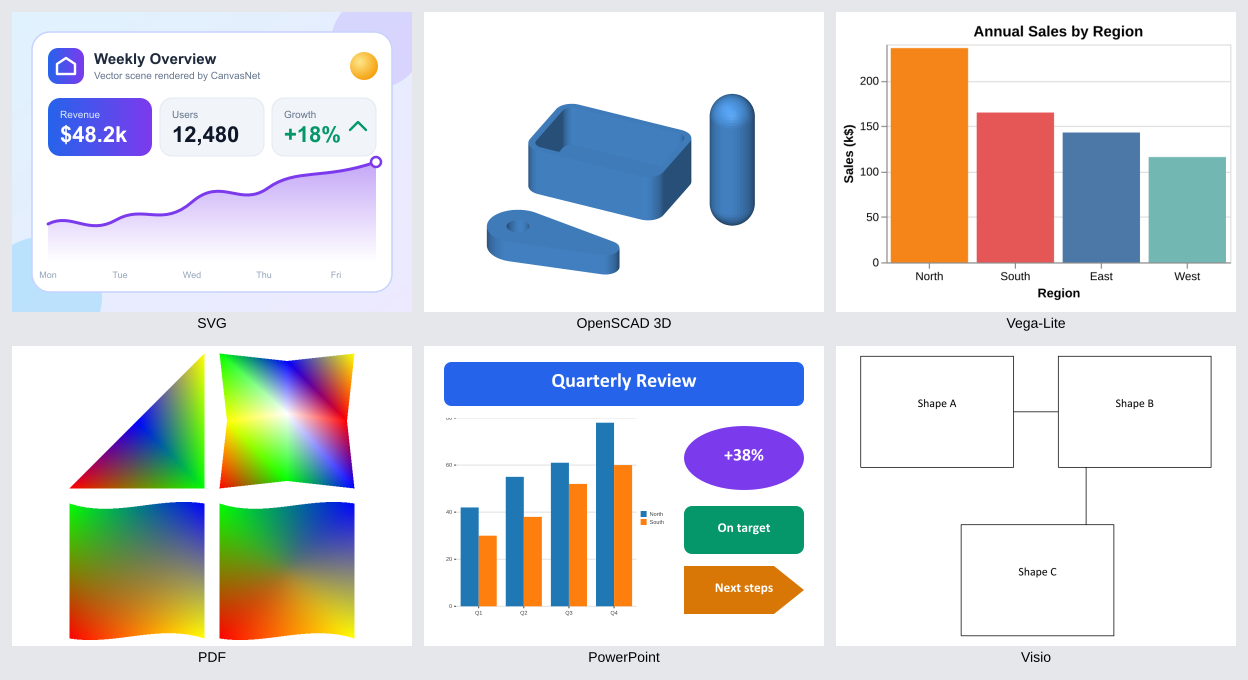
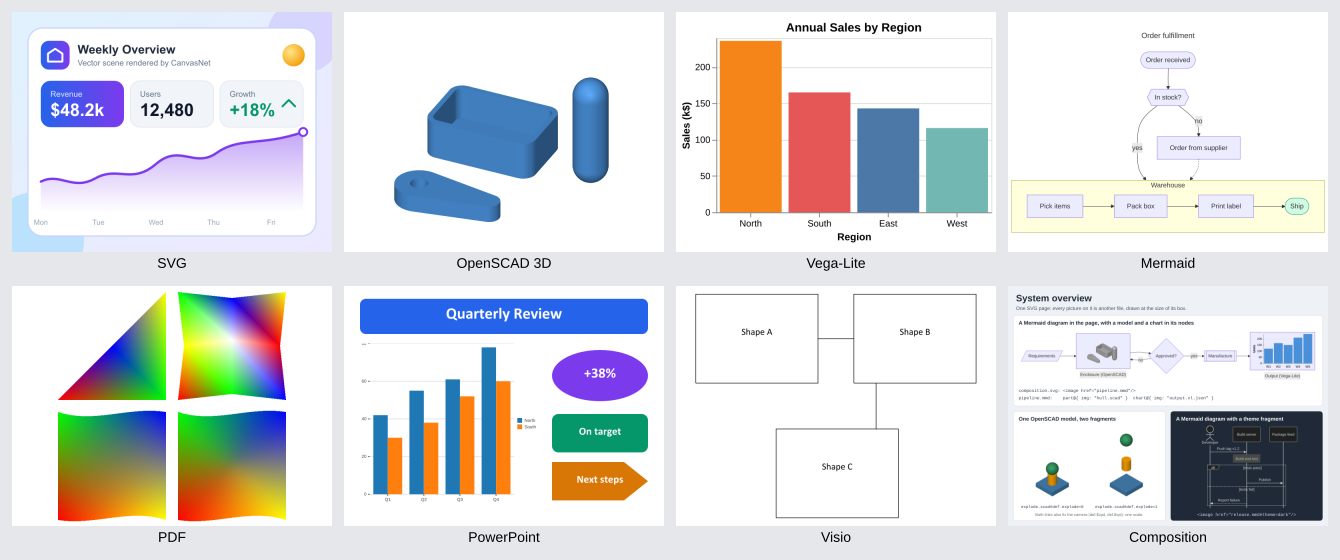
Show Mermaid and composition across formats in the README images
- showcase.png is a 4x2 grid with a Mermaid flowchart panel and a composition panel.
- New composition.png: an SVG page that embeds a Mermaid flowchart whose nodes show an OpenSCAD model and a
  Vega-Lite chart, one OpenSCAD model twice through def. fragments, and a sequence diagram with #theme=dark.
- New mermaid-gallery.png: six Mermaid diagram types from the user guide examples.
- README: new Composition section (nesting, fragments, flatten), Mermaid gallery, and updated captions.
- render-images.ps1 draws and checks the new images; docs/images/README.md describes their sources.

diff --git a/docs/images/README.md b/docs/images/README.md
@@ -2,6 +2,38 @@
 
 This folder holds the images used by the project README and the tool user guide.
 
+## composition.png
+
+`composition.png` (1440x1080) shows composition across formats: one SVG page, `showcase/composition.svg` (960x720,
+drawn at 1.5 times its size), whose pictures are other files that CanvasNet draws at the size of their boxes. It is
+referenced from the *Composition* section of the README by an absolute URL, like `showcase.png`.
+
+- The top panel embeds the Mermaid flowchart `showcase/pipeline.mmd` (`<image href="pipeline.mmd"/>`), whose picture
+  nodes show the OpenSCAD model `showcase/hull.scad` and the Vega-Lite chart `showcase/output.vl.json`
+  (`part@{ img: "hull.scad", ... }`): three levels of nesting, SVG, then Mermaid, then OpenSCAD and Vega-Lite. Every
+  picture node has its `w` and `h`, so the layout does not depend on the pictures.
+- The bottom left panel links the OpenSCAD assembly `showcase/explode.scad` twice, at the explode levels 0 and 1,
+  chosen by the fragment of each link (in the SVG file,
+  `explode.scad#def.explode=1&amp;def.$vpd=330&amp;def.$vpt=[0,0,46]`). The
+  fixed camera (`def.$vpd`, `def.$vpt`) gives both pictures one scale.
+- The bottom right panel links the Mermaid sequence diagram `showcase/release.mmd` with the dark theme chosen by its
+  link (`release.mmd#theme=dark`).
+
+The text of the page uses only the generic font families `sans-serif` and `monospace`, which are always the bundled
+Liberation fonts, and Mermaid and Vega-Lite always use the bundled fonts, so the picture is the same on every machine.
+`composition.svg`, `pipeline.mmd`, `output.vl.json`, and `release.mmd` are **original to this repository** (MIT), and
+so are the reused `hull.scad` and `explode.scad`. `render-images.ps1` draws it with `--strict`, so a link that stops
+working fails the script, and checks it like the other images.
+
+## mermaid-gallery.png
+
+`mermaid-gallery.png` (1248x680) is a montage of six Mermaid diagram types (a sequence diagram, a class diagram, a
+state diagram, a gantt chart, a mindmap, and a git graph), each drawn by `canvasnet render --strict` at twice its size
+and shown at 400x300. It is referenced from the README by an absolute URL, like `showcase.png`. The diagrams are the
+user guide examples `mermaid-sequence-arrows.mmd`, `mermaid-class-relations.mmd`, `mermaid-state-notes.mmd`,
+`mermaid-gantt.mmd`, `mermaid-mindmap.mmd`, and `mermaid-gitgraph.mmd` in `docs/user_guide/examples`, which are
+**original to this repository** (MIT). `render-images.ps1` draws and checks the montage like the other images.
+
 ## montage-explode.png
 
 `montage-explode.png` (888x366) is the picture of the `canvasnet montage` example of the tool user guide: the
@@ -25,9 +57,9 @@ chart shows, is **original to this repository** (MIT): the data is invented (a f
 
 ## showcase.png
 
-`showcase.png` (1248x680) is a montage of six panels, each rendered by the `canvasnet` command-line tool:
-SVG, OpenSCAD 3D, Vega-Lite, PDF, PowerPoint,
-and Visio. It is referenced from the README by an absolute URL, because the README is also shipped inside the
+`showcase.png` (1340x560) is a montage of eight panels in a 4x2 grid, each rendered by the `canvasnet` command-line
+tool: SVG, OpenSCAD 3D, Vega-Lite, Mermaid, PDF, PowerPoint, Visio, and a composition of several formats on one SVG
+page. It is referenced from the README by an absolute URL, because the README is also shipped inside the
 NuGet packages.
 
 ### Provenance and Licensing
@@ -38,10 +70,13 @@ permissively licensed third-party file that is credited below.
 - **SVG**: `showcase/dashboard.svg` - original, authored for this repository (MIT)
 - **OpenSCAD 3D**: `showcase/hull.scad` - original, authored for this repository (MIT)
 - **Vega-Lite**: `showcase/sales.vl.json` - original, authored for this repository (MIT)
+- **Mermaid**: `showcase/flowchart.mmd` - original, authored for this repository (MIT)
 - **PDF**: `showcase/mesh-shading.pdf` - copy of the hand-authored test fixture
   `shading-mesh-types-4-5-6-7.pdf` (MIT)
 - **PowerPoint**: `showcase/slide.pptx` - original, generated by `showcase/make-slide.py` with python-pptx (MIT)
 - **Visio**: `davehoward-test4-connectors.vsdx` (not copied here) - third-party, BSD 3-Clause; see the notice below
+- **Composition**: `showcase/composition.svg` and the files it links (see *composition.png* above) - original,
+  authored for this repository (MIT)
 
 The Visio panel renders `test4_connectors.vsdx` from the
 [dave-howard/vsdx](https://github.com/dave-howard/vsdx) project, which is kept unmodified as
@@ -98,7 +133,7 @@ To use a freshly built tool instead of an installed one, name its command with `
 `CANVASNET_TOOL` environment variable (a program and optional leading arguments), for example
 `dotnet src/DemaConsulting.CanvasNet.Tool/bin/Release/net10.0/DemaConsulting.CanvasNet.Tool.dll`.
 
-For `showcase.png`, each panel is rendered at 800x600 and shown at 400x300. The `--labels` option of
+For `showcase.png`, each panel is rendered at 800x600 and shown at 320x240. The `--labels` option of
 `canvasnet montage` prints the input file name, so the script copies the panels to extensionless files named after
 their labels before it builds the montage. To rebuild the PowerPoint input, run `python make-slide.py` in
 `docs/images/showcase` (it needs `pip install python-pptx`).
@@ -124,4 +159,5 @@ Notes:
 
 - The chart colors bars by region on the x axis, which already names each bar, so its legend is switched off with
   `legend: null`.
-- Panels 3, 4, 5, and 6 are padded with white to exactly 4:3 so that every cell has the same shape.
+- The Vega-Lite, Mermaid, PDF, PowerPoint, and Visio panels are padded with white to exactly 4:3 so that every cell
+  has the same shape; the SVG, OpenSCAD, and Composition panels are drawn at 800x600 directly.

diff --git a/README.md b/README.md
@@ -23,15 +23,46 @@ codecs for loading and saving images in common file formats. It's designed for f
 image operations using `Span<T>`, and supports independent-copy cropping and high-quality resizing for
 load/crop/resize/save workflows.
 
-![CanvasNet showcase: an SVG dashboard, an OpenSCAD 3D model, a Vega-Lite bar chart, a PDF page with mesh shadings, a PowerPoint slide with a chart, and a Visio diagram, all rendered by CanvasNet](https://raw.githubusercontent.com/demaconsulting/CanvasNet/main/docs/images/showcase.png)
+![CanvasNet showcase: an SVG dashboard, an OpenSCAD 3D model, a Vega-Lite bar chart, a Mermaid flowchart, a PDF page with mesh shadings, a PowerPoint slide with a chart, a Visio diagram, and an SVG page that composes several of them, all rendered by CanvasNet](https://raw.githubusercontent.com/demaconsulting/CanvasNet/main/docs/images/showcase.png)
 
-*Rendered with the `canvasnet` tool: SVG, OpenSCAD 3D, Vega-Lite, PDF, PowerPoint, and Visio. See
+*Rendered with the `canvasnet` tool: SVG, OpenSCAD 3D, Vega-Lite, Mermaid, PDF, PowerPoint, Visio, and a composition
+of them (see the Composition section below). See
 [how the image was made](https://github.com/demaconsulting/CanvasNet/blob/main/docs/images/README.md).*
 
 ![The Vega-Lite gallery: a line chart, stacked bars, a binned heat map, a donut, a density estimate, and a dark-themed chart, all rendered by CanvasNet](https://raw.githubusercontent.com/demaconsulting/CanvasNet/main/docs/images/vegalite-gallery.png)
 
 *Six of the 18 charts of the Vega-Lite gallery in the user guide; every chart of the gallery is an original
 specification and is rendered, in strict mode, by a test.*
+
+![Six Mermaid diagram types: a sequence diagram, a class diagram, a state diagram, a gantt chart, a mindmap, and a git graph, all rendered by CanvasNet](https://raw.githubusercontent.com/demaconsulting/CanvasNet/main/docs/images/mermaid-gallery.png)
+
+*Six of the ten Mermaid diagram types CanvasNet draws (sequence, class, state, gantt, mindmap, and git graph), each
+from the examples of the user guide, rendered in strict mode with ports of Mermaid's own layouts.*
+
+## Composition
+
+Any format CanvasNet reads can be a picture inside another. An SVG `<image href>` names any such file, a Mermaid node
+shows one (`part@{ img: "part.scad" }`, or `<img src="part.scad">` in a label), and a Vega-Lite `image` mark can too.
+Links go through a sandboxed resolver: only the document's own folder and below, never the network. A URL fragment
+passes options to the linked file: `#page=` or `#slide=` (PDF, PowerPoint, Visio), `#view=` and `def.<name>=`
+(OpenSCAD views and variables), `param.<name>=` (Vega-Lite parameters), and `#theme=` (Mermaid); join several with
+`&amp;` in XML.
+
+```xml
+<svg xmlns="http://www.w3.org/2000/svg" width="960" height="720">
+  <image href="pipeline.mmd" x="32" y="128" width="896" height="164"/> <!-- its nodes show .scad and .vl.json -->
+  <image href="explode.scad#def.explode=1" x="250" y="416" width="210" height="230"/>
+  <image href="release.mmd#theme=dark" x="504" y="416" width="424" height="250"/>
+</svg>
+```
+
+![An SVG page titled System overview: a Mermaid flowchart whose nodes show an OpenSCAD enclosure and a Vega-Lite bar chart, one OpenSCAD assembly drawn twice with different explode fragments, and a Mermaid sequence diagram drawn with the dark theme](https://raw.githubusercontent.com/demaconsulting/CanvasNet/main/docs/images/composition.png)
+
+*One SVG page, three levels deep: SVG, then Mermaid, then OpenSCAD and Vega-Lite. See
+[its sources](https://github.com/demaconsulting/CanvasNet/blob/main/docs/images/README.md).*
+
+`canvasnet flatten overview.svg -o overview-flat.svg` turns such a composite SVG into a self-contained one whose links
+are embedded PNG pictures, so a browser, WeasyPrint, or any other PDF pipeline shows it.
 
 ## Features
 
@@ -74,9 +105,9 @@ specification and is rendered, in strict mode, by a test.*
 - 🔣 **Glyph Fallback** - A character a font lacks (`∝`, `≫`, arrows, math signs) is drawn from bundled Noto fonts,
   the same on every machine; `GlyphFallback.FindMissing` lists the rest
 - 🛡 **Sandboxed File Resolver** - Resolve untrusted relative paths to files inside chosen directories, no escapes
-- 🖼 **Linked Pictures** - SVG `<image href>` can embed 3D models, charts, other SVG files, document pages
-  (`report.pdf#page=3`, `deck.pptx#slide=2`), and pictures from the document's own folder; the `Viewer` package lists
-  every format, and you can add your own source
+- 🖼 **Linked Pictures** - SVG `<image href>` can embed 3D models, charts, Mermaid diagrams, other SVG files, document
+  pages (`report.pdf#page=3`, `deck.pptx#slide=2`), and pictures from the document's own folder; the `Viewer` package
+  lists every format, and you can add your own source
 - 🔭 **Viewer** - `CanvasNetViewer.Render` draws any file CanvasNet can read (any page, at any resolution),
   `CreateImageResolver` makes SVG
   documents embed all of them, and its `Imaging` operations do everything the `canvasnet` tool does (probe, render with
